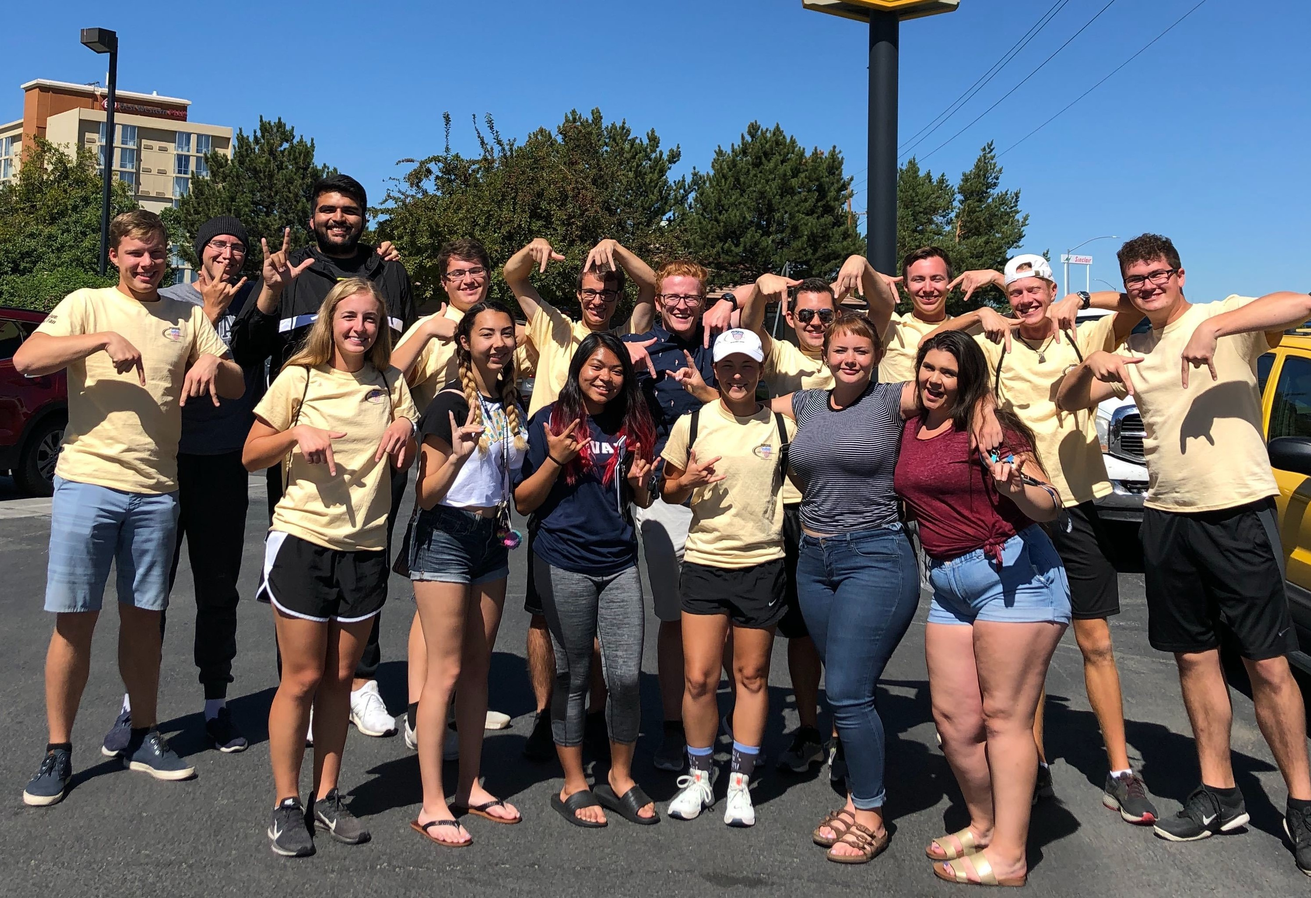
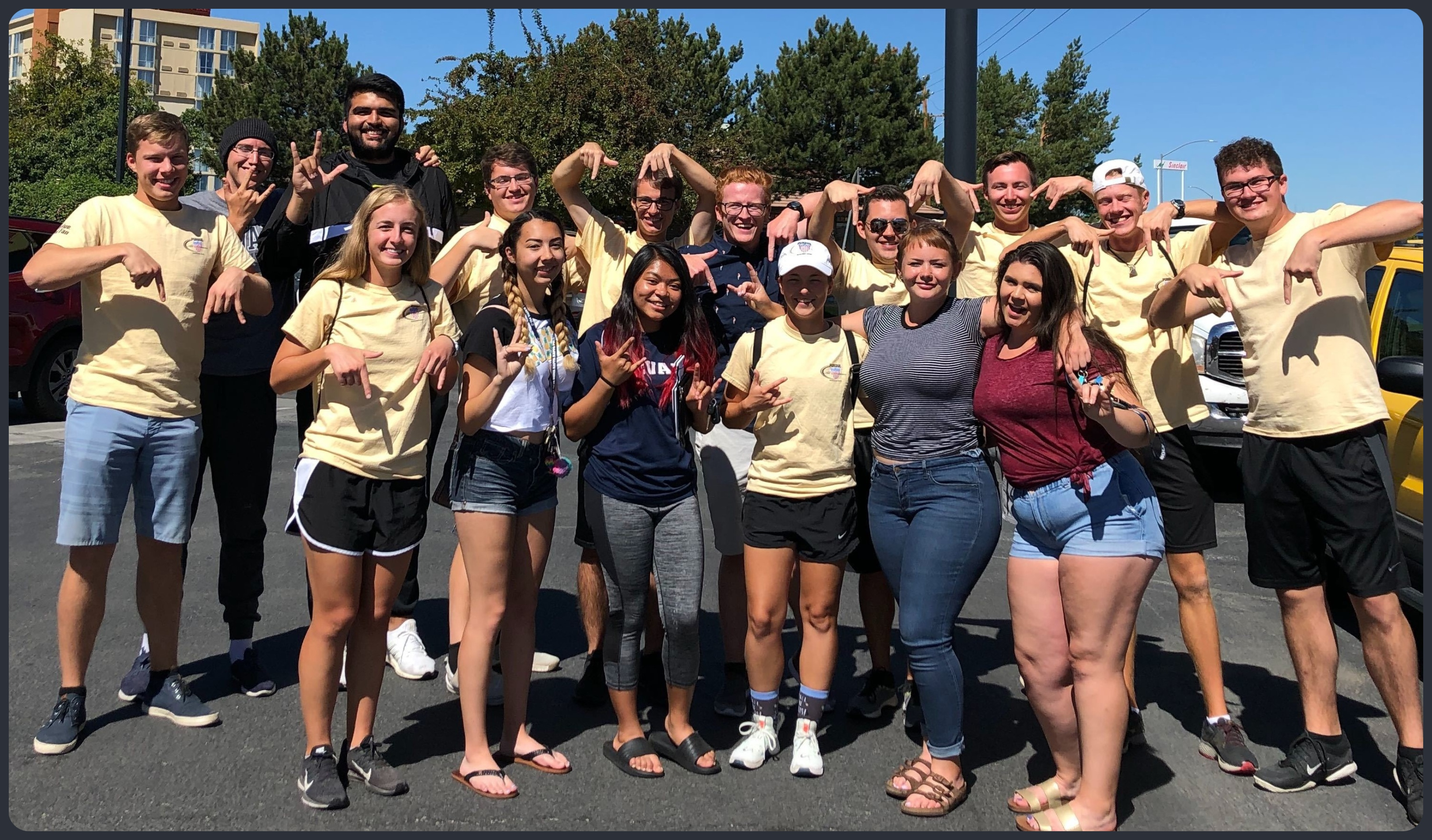
Updates photos and adds a quick links tab

diff --git a/quick-links.html b/quick-links.html
@@ -14,7 +14,7 @@
 		<!--[if lte IE 8]><link rel="stylesheet" href="css/ie8.css" /><![endif]-->
 		<style>
 			.oldgold {
-				color: #B19000;
+				color: #C29E00;
 		}
 		</style>
 		<style>
@@ -22,11 +22,7 @@
 				font-size:114%;
 		}
 		</style>
-		<style>
-			.reddish {
-				color: #A93226;
-		}
-		</style>
+		
 		<style>
 			.darkblue {
 				color: #255ca8;
@@ -49,7 +45,7 @@
 			</style>
 		<head>
  		 <link rel="icon" type="image/vnd.microsoft.icon"
-    			 href="http://purduekkpsi.com/history.html/favicon.ico" />
+    			 href="http://purduekkpsi.com/index.html/favicon.ico" />
 		<link rel="icon" type="image/png"
     			 href="http://purduekkpsi.com/image.png" />
 		<link rel="apple-touch-icon"
@@ -82,75 +78,27 @@
 									<li><a href="quick-links.html">Quick Links</a></li>
 								</ul>
 							</nav>
+
 					</div>
 				</div>
-			<!-- Main -->
-				<div class="wrapper style2">
-					<div class="title">Life and Honorary Members</div>
-						<div id="main" class="container">
-							<header class="style1">
-								<h2><strong><span class="black bigger">These brothers have graciously supported our chapter through lifetime membership</span></strong></h2>
-							</header>
-							<div class="datagrid">
-								<table align="center" style="color:black">
-								<tbody align="center">
-									<tr><td>James Lewis Abolt</td><td>John Howard Adams </td><td>Kyle Richard Alexander </td></tr>
-									<tr><td>Daryl Ray Allen</td><td>Robert Rae Arnold </td><td>Michael H. Barnard </td></tr>
-									<tr><td>Howard L. Bates</td><td>John Lewis Baughman </td><td>John Douglas Behrman </td></tr>
-									<tr><td>Bruce Allen Bicknell</td><td>James Curt Binder </td><td>Ronald Gail Blakenbaker </td></tr>
-									<tr><td>Jacob A. Boesch</td><td>David Charles Bolsen </td><td>Katherine Ann Boyer </td></tr>
-									<tr><td>C. Thomas Brehob</td><td>Gary Brennwald </td><td>David Alan Brown </td></tr>
-									<tr><td>Roger Lawrence Brunstrum</td><td>Joseph George Bucher III </td><td>James Henry Bucko </td></tr>
-									<tr><td>Thomas D. Chrisophel</td><td>M. Courtland Clayton </td><td>Quentin B. Comus </td></tr>
-									<tr><td>David E. Cook</td><td>John D. Cooper III </td><td>Gary Albert Cummings </td></tr>
-									<tr><td>Larry Gene Curtis</td><td>R. Douglas Damery </td><td>Emily Meghan Damone </td></tr>
-									<tr><td>Donald Lee Daniel</td><td>Edward E. Danley </td><td>John A. Davidson </td></tr>
-									<tr><td>Phillip Allan Davis</td><td>Wayne A. De La Croix </td><td>Gary Allan Decker </td></tr>
-									<tr><td>Charles E. Dewitt</td><td>Glenn Richard Dreblow </td><td>Richard R. Duncan </td></tr>
-									<tr><td>Lisa Lynn Behrens-Earnest</td><td>Ronald A. Ebel </td><td>David Bryant Ebert </td></tr>
-									<tr><td>William Charles Eidson</td><td>Kevin Timothy Emerson </td><td>Karl Ludwig Fetzer </td></tr>
-									<tr><td>Aaron Jeffery Frame</td><td>Russell Dean Fuhrmann </td><td>James Leonard Gardner </td></tr>
-									<tr><td>Walter Harry Gibson</td><td>Lewis Kingsbury Glanville </td><td>Walter R. Gleason </td></tr>
-									<tr><td>Thomas Bond Greening</td><td>William Luther Hall </td><td>David Mark Haradon </td></tr>
-									<tr><td>Richard A. Hardy</td><td>Lauren Diane Hart </td><td>Duane Hartage </td></tr>
-									<tr><td>Maurice George Hartman</td><td>Douglas W. Heavilin </td><td>Gary W. Hendricks </td></tr>
-									<tr><td>William A. Henly</td><td>Paul Joseph Hochgesang </td><td>Richard Allan Hoffman </td></tr>
-									<tr><td>Terrence D. Hottle</td><td>Daniel Charles Hughey </td><td>Christopher Daniel Ioerger </td></tr>
-									<tr><td>George J. Jackson</td><td>Ralph E. Jenkins </td><td>Roy Arnold Johnson </td></tr>
-									<tr><td>Kenneth Gene Kauffman</td><td>William Norman Keene </td><td>Martin Henry Kessler </td></tr>
-									<tr><td>Cory Jacob Kinsel</td><td>James Eugene Krahulec </td><td>Frank James Krueger </td></tr>
-									<tr><td>Stephen Arthur Krueger</td><td>Barry Alan Kuhl </td><td>Samuel Allan Lange </td></tr>
-									<tr><td>William Ralph Lankford</td><td>Erica Lynn Osinski-Laster </td><td>Scott A. Laster </td></tr>
-									<tr><td>Richard Lee Laster II</td><td>Joseph R. Laszlo </td><td>James W. Macdonald </td></tr>
-									<tr><td>David W. Martin</td><td>Peter Dean Mast </td><td>Michael A. McCarney </td></tr>
-									<tr><td>Grant Edward Miller</td><td>Steven Michael Miller </td><td>Grant R. Miner </td></tr>
-									<tr><td>Jason A. Mlady</td><td>William R. Moore </td><td>Joe Thomas Moyer </td></tr>
-									<tr><td>Keith Ray Mullett</td><td>Benedict Miles Murphy </td><td>George Ronald Needham </td></tr>
-									<tr><td>Dennis Pence</td><td>David Polinsky </td><td>Robert E. Pownall </td></tr>
-									<tr><td>Thomas Dale Poyser</td><td>Roger D. Priest </td><td>William Gary Robbins </td></tr>
-									<tr><td>Earl L. Robertson</td><td>David Andrew Robinson </td><td>Charles S. Rogol </td></tr>
-									<tr><td>Robert Frederick Schult</td><td>Frederick Lee Schweiger </td><td>John Scott Sermercheim </td></tr>
-									<tr><td>Thomas Robert Shaver</td><td>Donald Patrick Shively </td><td>Jeffery A. Skinner </td></tr>
-									<tr><td>Charles R. Smith</td><td>Michael Paul Sohn </td><td>Wayne Edward Stalnecker </td></tr>
-									<tr><td>David Jameson Stephan</td><td>Larry Alan Stichweh </td><td>Robert E. Stone </td></tr>
-									<tr><td>B. James Suzman</td><td>Robert Swanson </td><td>Sidney Ashton Taylor Jr. </td></tr>
-									<tr><td>James M. Tesmer</td><td>Joseph Ransdell Tesmer </td><td>Thomas L. Tesmer </td></tr>
-									<tr><td>Louis George Townsend</td><td>Jennifer Lynn Tuertscher </td><td>Thomas Roy Washer </td></tr>
-									<tr><td>Thomas Eugene West</td><td>Lee Warren Wiechmann </td><td>John Scott Williams </td></tr>
-									<tr><td>John Nolan Williams</td><td>Charles Edward Wilson </td><td>Richard Albert Wunder </td></tr>
-									<tr><td></td><td>Robert Yackish</td><td></td></tr>
-								</tbody>
-								</table>
-							</div>
-							<header class="style1">
-								<h2><strong><span class="black bigger">Thank you</span></strong></h2>
-							</header>
-						</div>
+
+				<div class="wrapper style3">
+					<div class="title">Quick Links</div>
+					<div class="linklist">
+						<h1>For current brothers:</h1>
+                		<ul>
+							<li><a href="https://docs.google.com/forms/d/e/1FAIpQLSf-qngLrNTiwQ-SUacIQSkVhmeNgYTXhl5YyM5vAY5YYEHLXg/viewform">Attendence Form</a><li>
+							<li><a href="https://slack-redir.net/link?url=https%3A%2F%2Fdocs.google.com%2Fforms%2Fd%2Fe%2F1FAIpQLSfstfrR7-IGWOTW8ngzX4Ue7wMWXYdK0ezDOlL3MgNsk3E5CQ%2Fviewform%3Fusp%3Dsf_link">Absence Form</a></li>
+							<li><a href="https://docs.google.com/forms/d/e/1FAIpQLSf3bX57wNLwN_V1KiXRCYYpKiuCBKhA5qfQhZTwILwQ_uv14Q/viewform?usp=sf_link">Photo of the Week Submissions</a></li>
+						</ul>
+						<h1>Other links:</h1>
+						<ul>
+							<li><a href="https://gammapialumni.org/category/alumni-darts/">Alumni Darts</a></li>
+						</ul>
 					</div>
 				</div>
-        
-			<!-- Footer -->
-				<div id="footer-wrapper" class="wrapper">
+
+                <div id="footer-wrapper" class="wrapper">
 					<div class="title">Contact Us</div>
 					<div id="footer" class="container">
 						<header class="style1">
@@ -226,6 +174,7 @@
 												</section>
 											</div>
 										</div>
+										</div>
 										
 									</section>
 							</div>
@@ -237,6 +186,7 @@
 							<li>&copy; Gamma Pi Webmaster</li><li>Design: <a href="http://html5up.net">HTML5 UP</a></li>
 						</ul>
 					</div>
+								
 				</div>
 
 		</div>

diff --git a/css/main.css b/css/main.css
@@ -1497,6 +1497,15 @@
 			padding-left: 0.25em;
 		}
 
+	.linklist {
+		text-align: center;
+		position: relative;
+		/*padding-top: 1.25em;
+		padding-bottom: 1.25em;
+		margin-bottom: 1.25em;
+		margin-top: 1.25em; */
+	}
+
 /* Feature List */
 
 	.feature-list h3 {
@@ -1972,7 +1981,7 @@
 		/* Wrappers */
 
 			.wrapper {
-				padding: 6em 0 9em 0;
+				padding: 6em 0 6em 0;
 			}
 
 				.wrapper .title {
@@ -2252,7 +2261,7 @@
 		/* Wrappers */
 
 			.wrapper {
-				padding: 4em 0 7em 0;
+				padding: 4em 0 4em 0;
 			}
 
 			#intro-wrapper {
@@ -2602,7 +2611,7 @@
 		/* Wrappers */
 
 			.wrapper {
-				padding: 15px 15px 5em 15px;
+				padding: 15px 15px 15px 15px;
 			}
 
 				.wrapper .title {

diff --git a/index.html b/index.html
@@ -75,6 +75,7 @@
 									<li><a href="chapter-leadership.html">Chapter Leadership</a></li>
 									<li><a href="life&honorary.html">Life & Honorary Members</a></li>
 									<li><a href="calendar.html">Calendar</a></li>
+									<li><a href="quick-links.html">Quick Links</a></li>
 								</ul>
 							</nav>
 
@@ -92,7 +93,7 @@
 						
 					<!-- Image -->
 							<a class="image featured">
-								<img src="images/Dune Boilers.jpg" alt="" />
+								<img src="images/DuneBros.jpg" alt="" />
 							</a>
 						
 					</section>

diff --git a/calendar.html b/calendar.html
@@ -75,6 +75,7 @@
 									<li><a href="chapter-leadership.html">Chapter Leadership</a></li>
 									<li><a href="life&honorary.html">Life & Honorary Members</a></li>
 									<li><a href="calendar.html">Calendar</a></li>
+									<li><a href="quick-links.html">Quick Links</a></li>
 								</ul>
 							</nav>
 					</div>

diff --git a/chapter-leadership.html b/chapter-leadership.html
@@ -85,6 +85,7 @@
 									<li><a href="chapter-leadership.html">Chapter Leadership</a></li>
 									<li><a href="life&honorary.html">Life & Honorary Members</a></li>
 									<li><a href="calendar.html">Calendar</a></li>
+									<li><a href="quick-links.html">Quick Links</a></li>
 								</ul>
 							</nav>
 

diff --git a/history.html b/history.html
@@ -79,6 +79,7 @@
 									<li><a href="chapter-leadership.html">Chapter Leadership</a></li>
 									<li><a href="life&honorary.html">Life & Honorary Members</a></li>
 									<li><a href="calendar.html">Calendar</a></li>
+									<li><a href="quick-links.html">Quick Links</a></li>
 								</ul>
 							</nav>
 
